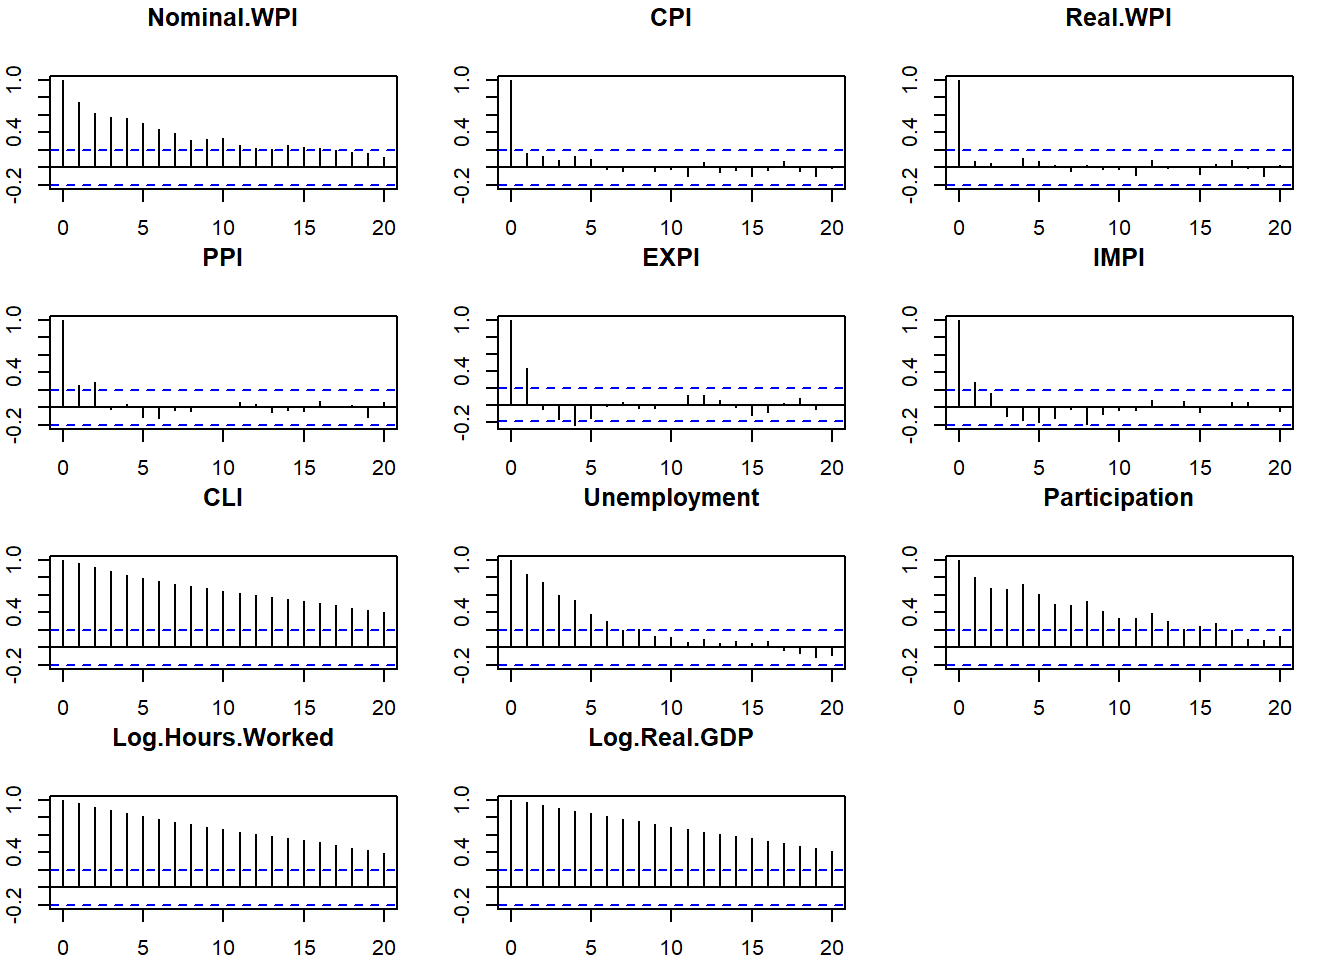
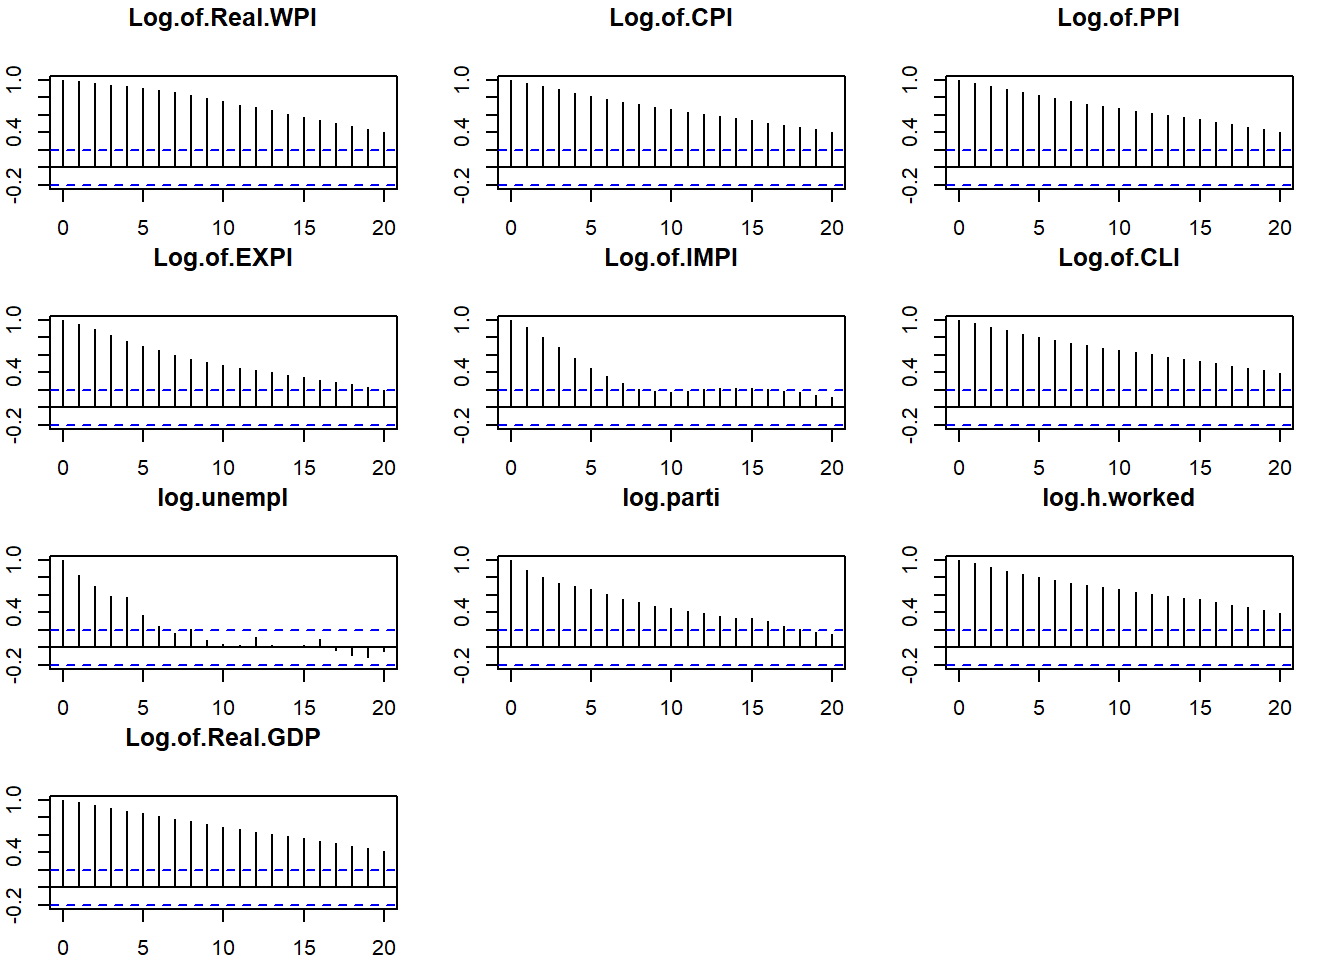
update 4/22

diff --git a/docs/index.html b/docs/index.html
@@ -173,22 +173,22 @@ div.csl-indent {
 </blockquote>
 <section id="research-question" class="level1">
 <h1>Research Question</h1>
-<p>This project aims to forecast real wages in Australia to provide an outlook for Australian households on the development in the upcoming periods.</p>
+<p>How will real wages and the broader economic conditions for households in Australia evolve in the upcoming periods?</p>
 </section>
 <section id="motivation" class="level1">
 <h1>Motivation</h1>
 <p>Accurate forecasting of real wage growth rates is imperative for policymakers and businesses as it facilitates the anticipation of shifts in consumer purchasing power, which in turn substantially influences economic demand and inflationary dynamics.Such forecasts are integral to the formulation of monetary and fiscal policies aimed at maintaining economic stability and fostering long-term growth. The rising inflation and consequent escalation in the cost of living have imposed significant strain on Australian households (<span class="citation" data-cites="RBA2024">Reserve Bank of Australia (<a href="#ref-RBA2024" role="doc-biblioref">2024</a>)</span>), compounded by the inability of nominal wage growth to sustain its historical average of approximately 4% since 2013 (<span class="citation" data-cites="ABS2024WPI">Australian Bureau of Statistics (<a href="#ref-ABS2024WPI" role="doc-biblioref">2024</a>)</span>). This stagnation has resulted in a marked decline in real wages, particularly in the aftermath of the COVID-19 pandemic (<span class="citation" data-cites="TreasuryAustralia2024">Australian Treasury (<a href="#ref-TreasuryAustralia2024" role="doc-biblioref">2024</a>)</span>). Notably, there has been a discernible upsurge in real wages since the last quarter. Nevertheless, historical projections by the Reserve Bank of Australia (RBA) have frequently failed to align with actual developments (<span class="citation" data-cites="RBA2017">Reserve Bank of Australia (<a href="#ref-RBA2017" role="doc-biblioref">2017</a>)</span>), highlighting the necessity for a more refined predictive algorithm that can reliably anticipate future stable increases in real wages.</p>
 <section id="theory-base" class="level2">
 <h2 class="anchored" data-anchor-id="theory-base">Theory base</h2>
-<p><strong>Real Wages Rates</strong> defined as:</p>
+<p><strong>Real Wages</strong> defined as:</p>
 <span class="math display">\[\begin{gather}
-\% \Delta Real\:wages = \% \Delta Nominal\:wages\:- Inflation
+\log Real\:wages = \log Nominal\:wages\:- \log CPI
 \end{gather}\]</span>
 </section>
 </section>
 <section id="data" class="level1">
 <h1>Data</h1>
-<p>Labor data is retrieved from the Australian Bureau of Statistics (ABS) using the readabs function and the Reserve Bank of Australia (RBA) using readrba.</p>
+<p>Labor data is retrieved from the Australian Bureau of Statistics (ABS) using the <strong>readabs</strong> function and the Reserve Bank of Australia (RBA) using <strong>readrba</strong>.</p>
 <p>The ABS releases data on average weekly earnings biannually, in May and December As the latest data is from 4 months ago, we will utilize the Wage Price Index (WPI), which is measured quarterly (last released in December 2023).</p>
 <p>Key economic variables are incorporated to understand labor market and economic dynamics. Nominal and Real Wages assess purchasing power and income trends, with real wages adjusted using the Consumer Price Index (CPI) to account for inflation. Producer Prices, reflected by the Producer Price Index (PPI), provide insights into production costs and business environment.Export (EPI) and Import Indexes (IPI) are included to evaluate trade impacts and economic competitiveness. The Cost of Living Index (CLI) assesses consumer expenses, influencing economic welfare. Unemployment and Labor Participation Rates offer perspectives on labor market health and engagement. Log Hours Worked and Log Real GDP are used to analyze productivity trends and overall economic output.</p>
 <section id="indicators" class="level2">
@@ -208,9 +208,9 @@ div.csl-indent {
 </thead>
 <tbody>
 <tr class="odd">
-<td>Nominal Wages</td>
-<td>WPI</td>
-<td>RBA</td>
+<td>Real Wages</td>
+<td>WPI - CPI</td>
+<td>ABS/RBA</td>
 <td>%</td>
 <td>1997-2024</td>
 </tr>
@@ -222,62 +222,55 @@ div.csl-indent {
 <td>1948-2023</td>
 </tr>
 <tr class="odd">
-<td>Real Wages</td>
-<td>WPI - CPI</td>
-<td>ABS/RBA</td>
-<td>%</td>
-<td>1997-2024</td>
-</tr>
-<tr class="even">
 <td>Producer Prices</td>
 <td>PPI</td>
 <td>ABS</td>
 <td>%</td>
 <td>1998-2023</td>
 </tr>
-<tr class="odd">
+<tr class="even">
 <td>Export Index</td>
 <td>EPI</td>
 <td>ABS</td>
 <td>%</td>
 <td>1998-2023</td>
 </tr>
-<tr class="even">
+<tr class="odd">
 <td>Import Index</td>
 <td>IPI</td>
 <td>ABS</td>
 <td>%</td>
 <td>1998-2023</td>
 </tr>
-<tr class="odd">
+<tr class="even">
 <td>Cost of Living</td>
 <td>CLI</td>
 <td>ABS</td>
 <td>%</td>
 <td>1998-2023</td>
 </tr>
-<tr class="even">
+<tr class="odd">
 <td>Unemployment</td>
 <td>UR</td>
 <td>RBA</td>
 <td>%</td>
 <td>1978-2024</td>
 </tr>
-<tr class="odd">
+<tr class="even">
 <td>Labor Participation</td>
 <td>LPR</td>
 <td>ABS</td>
 <td>%</td>
 <td>1978-2024</td>
 </tr>
-<tr class="even">
+<tr class="odd">
 <td>Log Hours Worked</td>
 <td>HW</td>
 <td>RBA</td>
 <td>-</td>
 <td>1978-2024</td>
 </tr>
-<tr class="odd">
+<tr class="even">
 <td>Log Real GDP</td>
 <td>Real GDP</td>
 <td>RBA</td>
@@ -301,104 +294,97 @@ div.csl-indent {
 <div class="cell-output-display">
 <table class="table table-sm table-striped small">
 <colgroup>
-<col style="width: 9%">
-<col style="width: 10%">
-<col style="width: 3%">
-<col style="width: 7%">
-<col style="width: 4%">
-<col style="width: 4%">
-<col style="width: 4%">
-<col style="width: 4%">
+<col style="width: 8%">
 <col style="width: 11%">
-<col style="width: 12%">
-<col style="width: 15%">
+<col style="width: 8%">
+<col style="width: 8%">
+<col style="width: 8%">
+<col style="width: 8%">
+<col style="width: 8%">
+<col style="width: 8%">
+<col style="width: 7%">
+<col style="width: 9%">
 <col style="width: 11%">
 </colgroup>
 <thead>
 <tr class="header">
 <th style="text-align: left;">Date</th>
-<th style="text-align: right;">Nominal.WPI</th>
-<th style="text-align: right;">CPI</th>
-<th style="text-align: right;">Real.WPI</th>
-<th style="text-align: right;">PPI</th>
-<th style="text-align: right;">EXPI</th>
-<th style="text-align: right;">IMPI</th>
-<th style="text-align: right;">CLI</th>
-<th style="text-align: right;">Unemployment</th>
-<th style="text-align: right;">Participation</th>
-<th style="text-align: right;">Log.Hours.Worked</th>
-<th style="text-align: right;">Log.Real.GDP</th>
+<th style="text-align: right;">Log.of.Real.WPI</th>
+<th style="text-align: right;">Log.of.CPI</th>
+<th style="text-align: right;">Log.of.PPI</th>
+<th style="text-align: right;">Log.of.EXPI</th>
+<th style="text-align: right;">Log.of.IMPI</th>
+<th style="text-align: right;">Log.of.CLI</th>
+<th style="text-align: right;">log.unempl</th>
+<th style="text-align: right;">log.parti</th>
+<th style="text-align: right;">log.h.worked</th>
+<th style="text-align: right;">Log.of.Real.GDP</th>
 </tr>
 </thead>
 <tbody>
 <tr class="odd">
 <td style="text-align: left;">1998-12-31</td>
-<td style="text-align: right;">0.7</td>
-<td style="text-align: right;">0.4</td>
-<td style="text-align: right;">0.3</td>
-<td style="text-align: right;">-0.6</td>
-<td style="text-align: right;">-5.0</td>
-<td style="text-align: right;">-1.0</td>
-<td style="text-align: right;">65.9</td>
-<td style="text-align: right;">7.044860</td>
-<td style="text-align: right;">63.53082</td>
-<td style="text-align: right;">14.04631</td>
+<td style="text-align: right;">0.0233247</td>
+<td style="text-align: right;">4.216562</td>
+<td style="text-align: right;">4.261270</td>
+<td style="text-align: right;">3.899950</td>
+<td style="text-align: right;">4.624973</td>
+<td style="text-align: right;">4.188138</td>
+<td style="text-align: right;">1.954982</td>
+<td style="text-align: right;">4.143595</td>
+<td style="text-align: right;">15.14428</td>
 <td style="text-align: right;">12.63974</td>
 </tr>
 <tr class="even">
 <td style="text-align: left;">1999-03-31</td>
-<td style="text-align: right;">0.7</td>
-<td style="text-align: right;">0.0</td>
-<td style="text-align: right;">0.7</td>
-<td style="text-align: right;">-0.3</td>
-<td style="text-align: right;">-3.8</td>
-<td style="text-align: right;">-2.2</td>
-<td style="text-align: right;">65.7</td>
-<td style="text-align: right;">7.348020</td>
-<td style="text-align: right;">62.90669</td>
-<td style="text-align: right;">14.05472</td>
+<td style="text-align: right;">0.0305035</td>
+<td style="text-align: right;">4.216562</td>
+<td style="text-align: right;">4.258446</td>
+<td style="text-align: right;">3.860730</td>
+<td style="text-align: right;">4.603168</td>
+<td style="text-align: right;">4.185099</td>
+<td style="text-align: right;">2.033353</td>
+<td style="text-align: right;">4.138257</td>
+<td style="text-align: right;">15.14749</td>
 <td style="text-align: right;">12.64707</td>
 </tr>
 <tr class="odd">
 <td style="text-align: left;">1999-06-30</td>
-<td style="text-align: right;">0.9</td>
-<td style="text-align: right;">0.4</td>
-<td style="text-align: right;">0.5</td>
-<td style="text-align: right;">0.3</td>
-<td style="text-align: right;">-2.7</td>
-<td style="text-align: right;">-2.6</td>
-<td style="text-align: right;">65.9</td>
-<td style="text-align: right;">6.476035</td>
-<td style="text-align: right;">62.54834</td>
-<td style="text-align: right;">14.04771</td>
+<td style="text-align: right;">0.0332161</td>
+<td style="text-align: right;">4.220977</td>
+<td style="text-align: right;">4.261270</td>
+<td style="text-align: right;">3.832980</td>
+<td style="text-align: right;">4.576771</td>
+<td style="text-align: right;">4.188138</td>
+<td style="text-align: right;">1.922737</td>
+<td style="text-align: right;">4.136550</td>
+<td style="text-align: right;">15.15045</td>
 <td style="text-align: right;">12.65050</td>
 </tr>
 <tr class="even">
 <td style="text-align: left;">1999-09-30</td>
-<td style="text-align: right;">0.6</td>
-<td style="text-align: right;">0.9</td>
-<td style="text-align: right;">-0.3</td>
-<td style="text-align: right;">0.8</td>
-<td style="text-align: right;">1.1</td>
-<td style="text-align: right;">-0.1</td>
-<td style="text-align: right;">66.5</td>
-<td style="text-align: right;">7.080555</td>
-<td style="text-align: right;">63.49623</td>
-<td style="text-align: right;">14.06500</td>
+<td style="text-align: right;">0.0315212</td>
+<td style="text-align: right;">4.229749</td>
+<td style="text-align: right;">4.269697</td>
+<td style="text-align: right;">3.843744</td>
+<td style="text-align: right;">4.575741</td>
+<td style="text-align: right;">4.197202</td>
+<td style="text-align: right;">1.897081</td>
+<td style="text-align: right;">4.138318</td>
+<td style="text-align: right;">15.16141</td>
 <td style="text-align: right;">12.66185</td>
 </tr>
 <tr class="odd">
 <td style="text-align: left;">1999-12-31</td>
-<td style="text-align: right;">0.7</td>
-<td style="text-align: right;">0.6</td>
-<td style="text-align: right;">0.1</td>
-<td style="text-align: right;">0.8</td>
-<td style="text-align: right;">4.3</td>
-<td style="text-align: right;">2.2</td>
-<td style="text-align: right;">66.7</td>
-<td style="text-align: right;">6.568227</td>
-<td style="text-align: right;">63.82390</td>
-<td style="text-align: right;">14.08113</td>
+<td style="text-align: right;">0.0327431</td>
+<td style="text-align: right;">4.235555</td>
+<td style="text-align: right;">4.278054</td>
+<td style="text-align: right;">3.885679</td>
+<td style="text-align: right;">4.597138</td>
+<td style="text-align: right;">4.200205</td>
+<td style="text-align: right;">1.848368</td>
+<td style="text-align: right;">4.144242</td>
+<td style="text-align: right;">15.17622</td>
 <td style="text-align: right;">12.67871</td>
 </tr>
 </tbody>
@@ -441,7 +427,7 @@ div.csl-indent {
 
 <div data-pagedtable="false">
   <script data-pagedtable-source="" type="application/json">
-{"columns":[{"label":[""],"name":["_rn_"],"type":[""],"align":["left"]},{"label":["Variable"],"name":[1],"type":["chr"],"align":["left"]},{"label":["TestType"],"name":[2],"type":["chr"],"align":["left"]},{"label":["TestStatistic"],"name":[3],"type":["dbl"],"align":["right"]},{"label":["PValue"],"name":[4],"type":["dbl"],"align":["right"]}],"data":[{"1":"Nominal.WPI","2":"First Difference","3":"-5.340508","4":"0.01000000","_rn_":"Dickey-Fuller...1"},{"1":"CPI","2":"First Difference","3":"-6.384076","4":"0.01000000","_rn_":"Dickey-Fuller...2"},{"1":"Real.WPI","2":"Levels","3":"-3.619395","4":"0.03487543","_rn_":"Dickey-Fuller...3"},{"1":"PPI","2":"Levels","3":"-4.050720","4":"0.01000000","_rn_":"Dickey-Fuller...4"},{"1":"EXPI","2":"Levels","3":"-5.072645","4":"0.01000000","_rn_":"Dickey-Fuller...5"},{"1":"IMPI","2":"Levels","3":"-5.103462","4":"0.01000000","_rn_":"Dickey-Fuller...6"},{"1":"CLI","2":"Second Difference","3":"-6.175287","4":"0.01000000","_rn_":"Dickey-Fuller...7"},{"1":"Unemployment","2":"First Difference","3":"-4.538935","4":"0.01000000","_rn_":"Dickey-Fuller...8"},{"1":"Participation","2":"First Difference","3":"-4.877507","4":"0.01000000","_rn_":"Dickey-Fuller...9"},{"1":"Log.Hours.Worked","2":"First Difference","3":"-4.661702","4":"0.01000000","_rn_":"Dickey-Fuller...10"},{"1":"Log.Real.GDP","2":"First Difference","3":"-4.640533","4":"0.01000000","_rn_":"Dickey-Fuller...11"}],"options":{"columns":{"min":{},"max":[10]},"rows":{"min":[10],"max":[10]},"pages":{}}}
+{"columns":[{"label":[""],"name":["_rn_"],"type":[""],"align":["left"]},{"label":["Variable"],"name":[1],"type":["chr"],"align":["left"]},{"label":["TestType"],"name":[2],"type":["chr"],"align":["left"]},{"label":["TestStatistic"],"name":[3],"type":["dbl"],"align":["right"]},{"label":["PValue"],"name":[4],"type":["dbl"],"align":["right"]}],"data":[{"1":"Log.of.Real.WPI","2":"First Difference","3":"-3.455484","4":"0.04960021","_rn_":"Dickey-Fuller...1"},{"1":"Log.of.CPI","2":"Second Difference","3":"-6.332683","4":"0.01000000","_rn_":"Dickey-Fuller...2"},{"1":"Log.of.PPI","2":"First Difference","3":"-3.728148","4":"0.02528997","_rn_":"Dickey-Fuller...3"},{"1":"Log.of.EXPI","2":"First Difference","3":"-5.017638","4":"0.01000000","_rn_":"Dickey-Fuller...4"},{"1":"Log.of.IMPI","2":"First Difference","3":"-5.093645","4":"0.01000000","_rn_":"Dickey-Fuller...5"},{"1":"Log.of.CLI","2":"Second Difference","3":"-6.375534","4":"0.01000000","_rn_":"Dickey-Fuller...6"},{"1":"log.unempl","2":"Levels","3":"-3.745394","4":"0.02425512","_rn_":"Dickey-Fuller...7"},{"1":"log.parti","2":"First Difference","3":"-5.500002","4":"0.01000000","_rn_":"Dickey-Fuller...8"},{"1":"log.h.worked","2":"First Difference","3":"-4.872804","4":"0.01000000","_rn_":"Dickey-Fuller...9"},{"1":"Log.of.Real.GDP","2":"First Difference","3":"-4.640533","4":"0.01000000","_rn_":"Dickey-Fuller...10"}],"options":{"columns":{"min":{},"max":[10]},"rows":{"min":[10],"max":[10]},"pages":{}}}
   </script>
 </div>
 </div>
@@ -453,8 +439,8 @@ div.csl-indent {
 <h1>The model</h1>
 <p>To analyze the macroeconomic and financial variables and run forecasts, a vector autoregression (VAR) model can be applied, which allows for the multivariate framework of several timeseries. A general VAR model with <span class="math inline">\(\rho\)</span> lags for <span class="math inline">\(t=1,...,T\)</span> can be stated as:</p>
 <span class="math display">\[\begin{gather}
-y_{t}   =\mu_{0}+A_{1}y_{t-1}+...+A_{\rho}y_{t-\rho}+\epsilon_{t}
-\epsilon_{t}|Y_{T-1}    \sim iid\left(0_{N},\Sigma\right)
+y_{t}   &amp;=\mu_{0}+A_{1}y_{t-1}+...+A_{\rho}y_{t-\rho}+\epsilon_{t}\\
+\epsilon_{t}|Y_{T-1}    &amp;\sim iid\left(0_{N},\Sigma\right)
 \end{gather}\]</span>
 <p>Where <span class="math inline">\(y_{t}=N\times1\)</span> is a vector of observations at time <span class="math inline">\(t\)</span>, <span class="math inline">\(\mu_{0}=N\times1\)</span> is a vector of constant terms, <span class="math inline">\(A_{i}=N\times N\)</span> is a vector of the autoregressive slope parameters, <span class="math inline">\(\epsilon_{t}=N\times1\)</span> is a vector of error terms, <span class="math inline">\(Y_{t-1}\)</span> is the information set and <span class="math inline">\(\Sigma=N\times N\)</span> is the covariance matrix of the error term.</p>
 </section>
